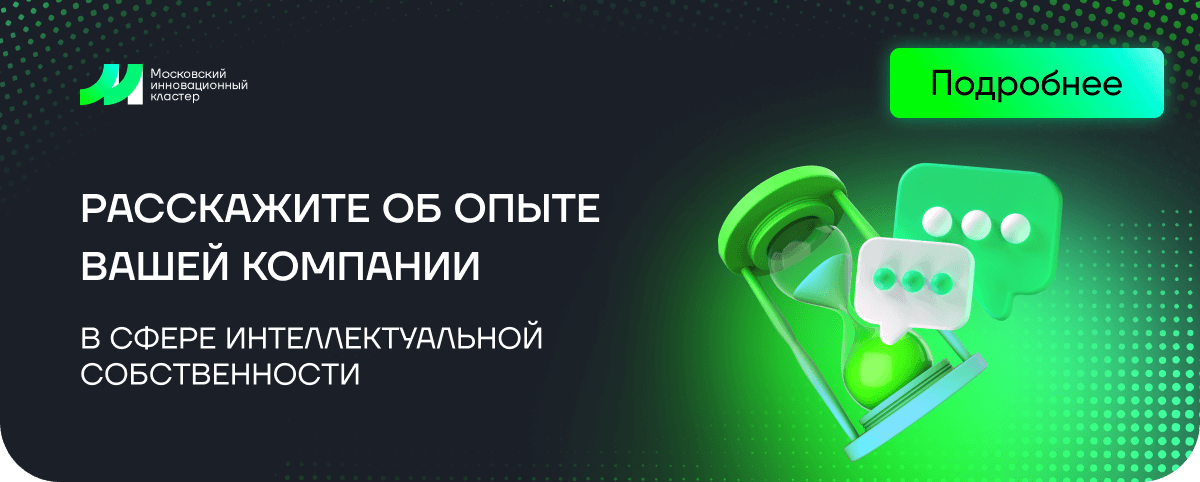
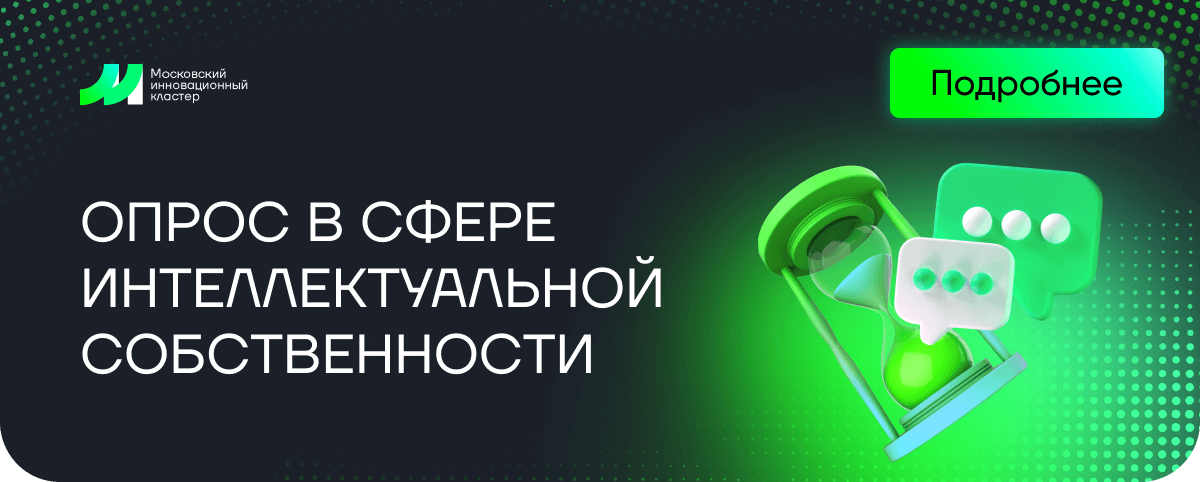
add mik-198

Changed region(s): [[0.0617, 0.4046, 0.555, 0.8091], [0.5858, 0.3423, 0.925, 0.9647], [0.925, 0.0934, 0.9867, 0.1867]]

diff --git a/mik-198/Расскажите об опыте  вашей компании.html b/mik-198/Расскажите об опыте  вашей компании.html
@@ -132,12 +132,7 @@
                             <table border="0" cellpadding="0" cellspacing="0" role="presentation" style="vertical-align:top;" width="100%">
                                 <tbody>
                                 <tr>
-                                    <td align="left" style="font-size:0px;word-break:break-word;padding:19px 0 8px;">
-                                        <div style="font-family: Gilroy, Helvetica, Arial, sans-serif;font-size:20px;font-weight:600;line-height:24px;text-align:left;color:#FFFFFF;">Опрос в&nbsp;сфере интеллектуальной собственности</div>
-                                    </td>
-                                </tr>
-                                <tr>
-                                    <td align="left" style="font-size:0px;word-break:break-word;">
+                                    <td align="left" style="font-size:0px;word-break:break-word;padding-top:36px;">
                                         <div style="font-family: Gilroy, Helvetica, Arial, sans-serif;font-size:16px;font-weight:400;line-height:19.2px;text-align:left;color:#FFFFFF;max-width: 369px;width:100%;">Мы стремимся собрать мнения и&nbsp;предложения для&nbsp;улучшения законодательных и&nbsp;практических аспектов защиты прав на&nbsp;интеллектуальную собственность в&nbsp;стране — от&nbsp;очевидных до&nbsp;самых креативных.</div>
                                     </td>
                                 </tr>
@@ -153,7 +148,7 @@
                                         <table border="0" cellpadding="0" cellspacing="0" role="presentation" style="border-collapse:collapse;border-spacing:0px;">
                                             <tbody>
                                             <tr>
-                                                <td style="width:133px;padding-top:30px;">
+                                                <td style="width:133px;padding-top:18px;">
                                                     <img alt="Декоративная картинка" height="auto" src="https://cp.unisender.com/ru/user_file?resource=images&user_id=5608985&name=mik-198-content-img-1.png" style="border:0;display:block;outline:none;text-decoration:none;height:auto;width:100%;font-size:13px;" width="133" />
                                                 </td>
                                             </tr>
